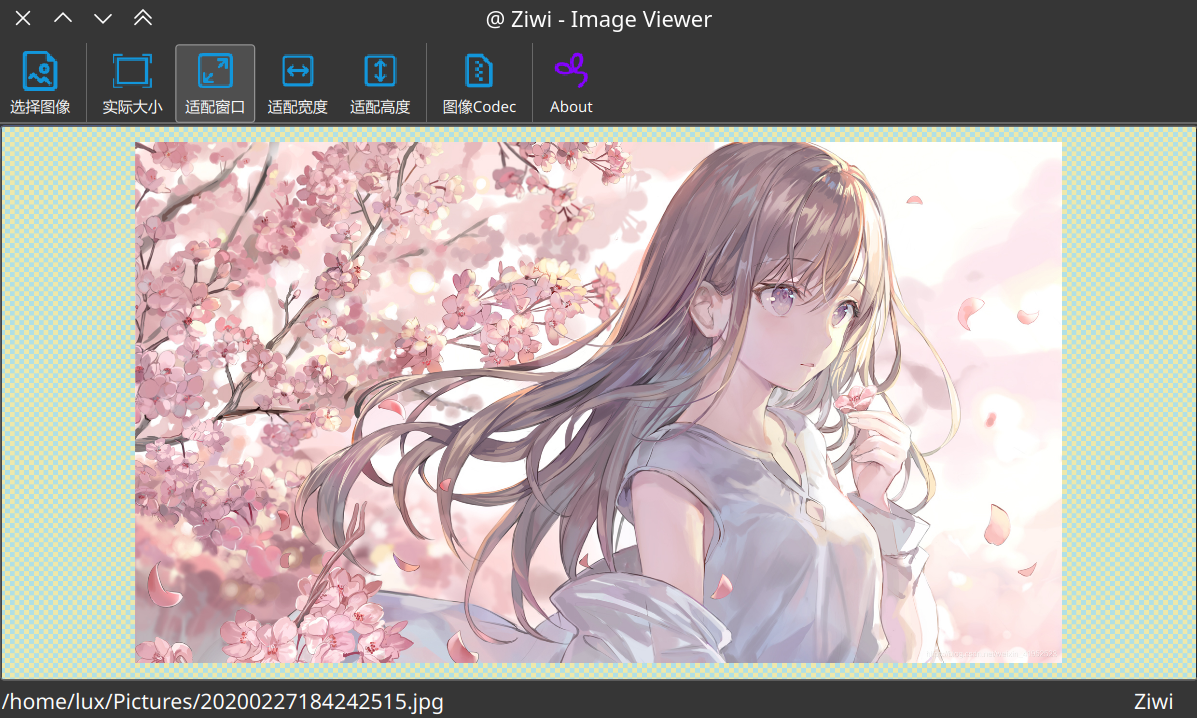
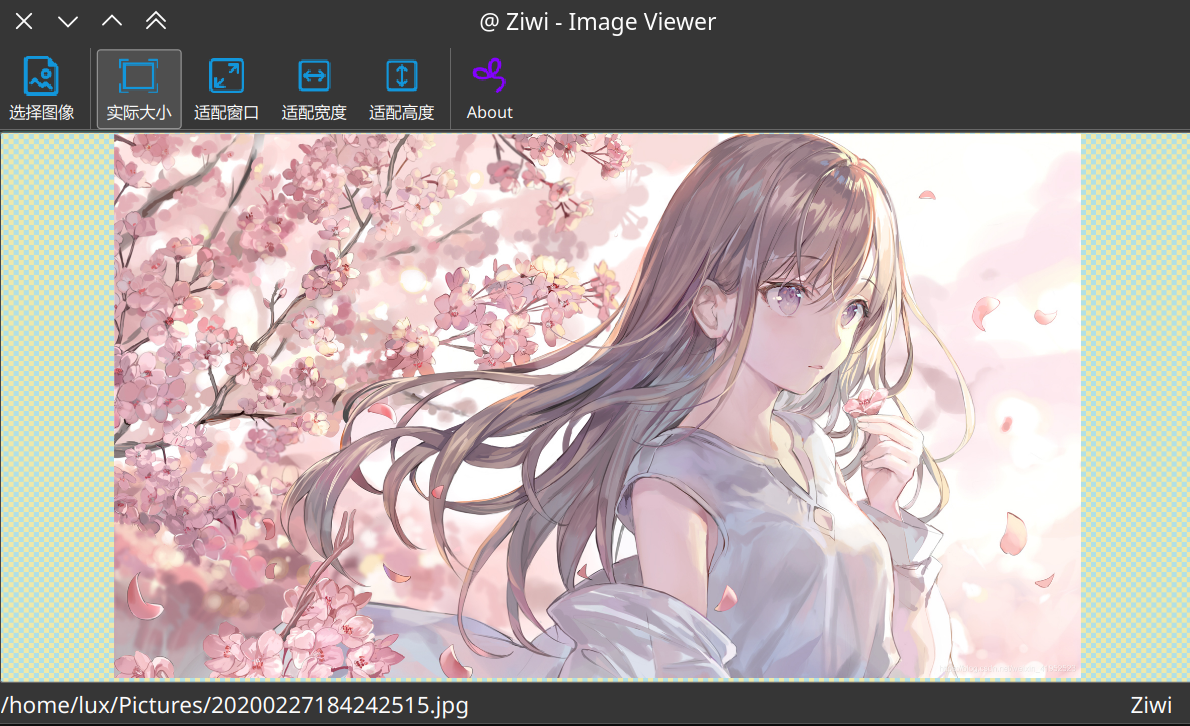
Remove "图像 Codec"

diff --git a/src/about.cc b/src/about.cc
@@ -29,20 +29,10 @@ About::~About() {
 }
 
 void About::initUiComponent(void) {
-    titleLabel = new QLabel(this);
-    titleLabel->setText(tr("Ziwi - Image Viewer"));
-    titleLabel->setAlignment(Qt::AlignmentFlag::AlignCenter);
-
-    auto titleFont = QFont(FONT);
-    titleFont.setBold(true);
-    titleFont.setPointSize(16);
-    titleLabel->setFont(titleFont);
-
     infoLabel = new QLabel(this);
     infoLabel->setOpenExternalLinks(true);
     infoLabel->setAlignment(Qt::AlignmentFlag::AlignCenter);
-    infoLabel->setText(tr(VERSION.c_str()) + tr(DATE.c_str()) +
-                       tr(DEVELOPER.c_str()));
+    infoLabel->setText(tr(Github.c_str()));
 
     auto infoFont = QFont(FONT);
     infoFont.setWeight(QFont::Cursive);
@@ -51,15 +41,15 @@ void About::initUiComponent(void) {
     infoTextEdit->setFont(infoFont);
     infoTextEdit->setText(tr(SYSTEM_INFO.c_str()));
     infoTextEdit->setReadOnly(true);
-    infoTextEdit->setFixedSize(ABOUT_WIDGET_WIDTH - 36, 200);
+    infoTextEdit->setFixedSize(ABOUT_WIDGET_WIDTH - 36, 128);
 
     auto iconLabel = new QLabel(this);
+    iconLabel->setScaledContents(true);
     iconLabel->setPixmap(QPixmap(kICON_LOGO.c_str()));
     iconLabel->setAlignment(Qt::AlignmentFlag::AlignCenter);
 
     auto layout = new QVBoxLayout(this);
     layout->setAlignment(Qt::AlignmentFlag::AlignCenter);
-    layout->addWidget(titleLabel);
     layout->addWidget(iconLabel);
     layout->addWidget(infoLabel);
     layout->addWidget(infoTextEdit);

diff --git a/include/ziwi/common.h b/include/ziwi/common.h
@@ -5,11 +5,9 @@
 #include <QIcon>
 #include <string>
 
-const std::string VERSION = "Version: 1.1.0\n";
-const std::string DATE = "Date: 02/06/2023\n";
-const std::string DEVELOPER =
-    "Developer: 西安电子科技大学图像传输与处理研究所（西电图像所）";
-
+const std::string VERSION = "Ver 1.1.1";
+const std::string Github = "<a href=\"https://github.com/lutianen/Ziwi\">"
+           "Ziwi @ Image Viewer [ " + VERSION + " ]";
 const std::string SYSTEM_INFO =
     "Ziwi is a free and open source image viewer, based on Qt5 and OpenCV4, "
     "implemented in C++ programming. It can be used to view 8 bits / 12 bits / "
@@ -53,13 +51,14 @@ const std::string SYSTEM_INFO =
     "USE"
     "OF THIS SOFTWARE, EVEN IF ADVISED OF THE POSSIBILITY OF SUCH DAMAGE.";
 
-#define ABOUT_WIDGET_WIDTH 560
-#define ABOUT_WIDGET_HEIGHT 570
+#define ABOUT_WIDGET_WIDTH 360
+#define ABOUT_WIDGET_HEIGHT 430
 const char *const kAppName = "Ziwi";
 const QColor kNormalColor = QColor("#2C3E50");
 const QColor kSelectedColor = QColor("#2980B9");
 
 //
+const std::string kABOUT_TITLE {"Ziwi @ Image Viewer"};
 const std::string kBASE_DIR{"/home/lux/Desktop/Ziwi/"};
 const std::string kICON_LOGO = kBASE_DIR + "icon/logo.ico";
 const std::string kICON_LOGO_2 = kBASE_DIR + "icon/ziwi.png";

diff --git a/src/mainwindow.cc b/src/mainwindow.cc
@@ -219,8 +219,8 @@ void DeCompImgViewMainWindow::onImageCodec() {
 
 void DeCompImgViewMainWindow::onAbout() {
     // std::cout << __FUNCTION__ << std::endl;
-    auto about = new Lux::ziwi::About;
-    about->setWindowTitle("About Ziwi");
+    auto about = new Lux::ziwi::About();
+    about->setWindowTitle(kABOUT_TITLE.c_str());
     about->setWindowIcon(QIcon(kICON_LOGO.c_str()));
     about->setFixedSize(ABOUT_WIDGET_WIDTH, ABOUT_WIDGET_HEIGHT);
     about->show();
